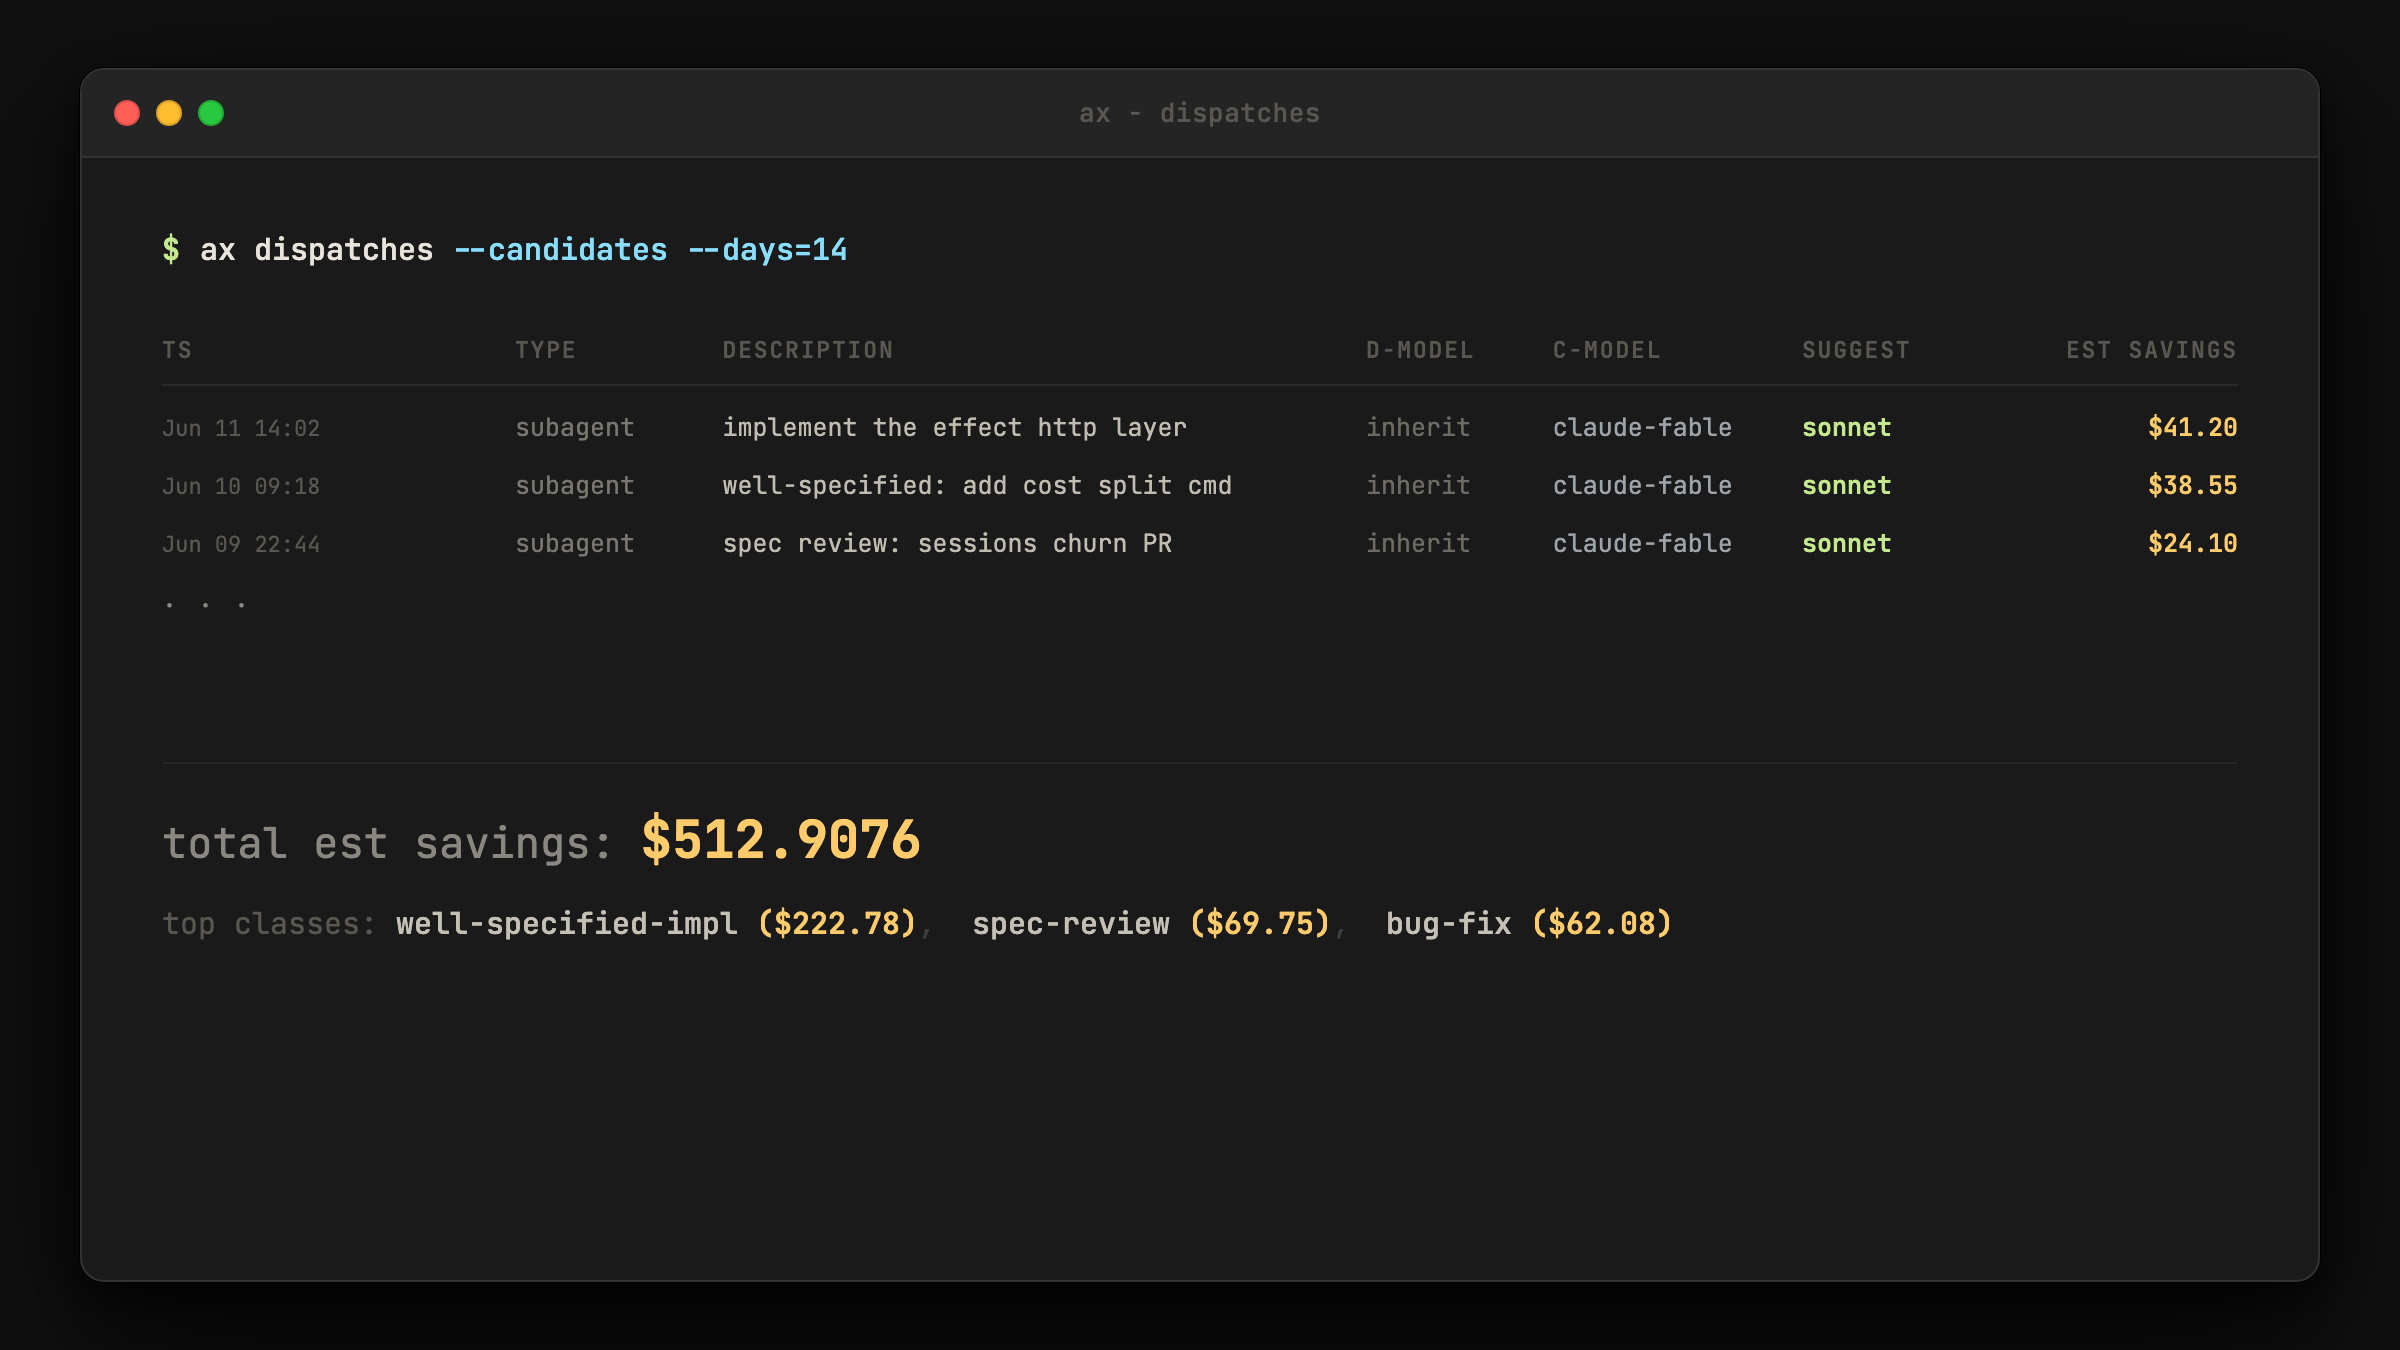
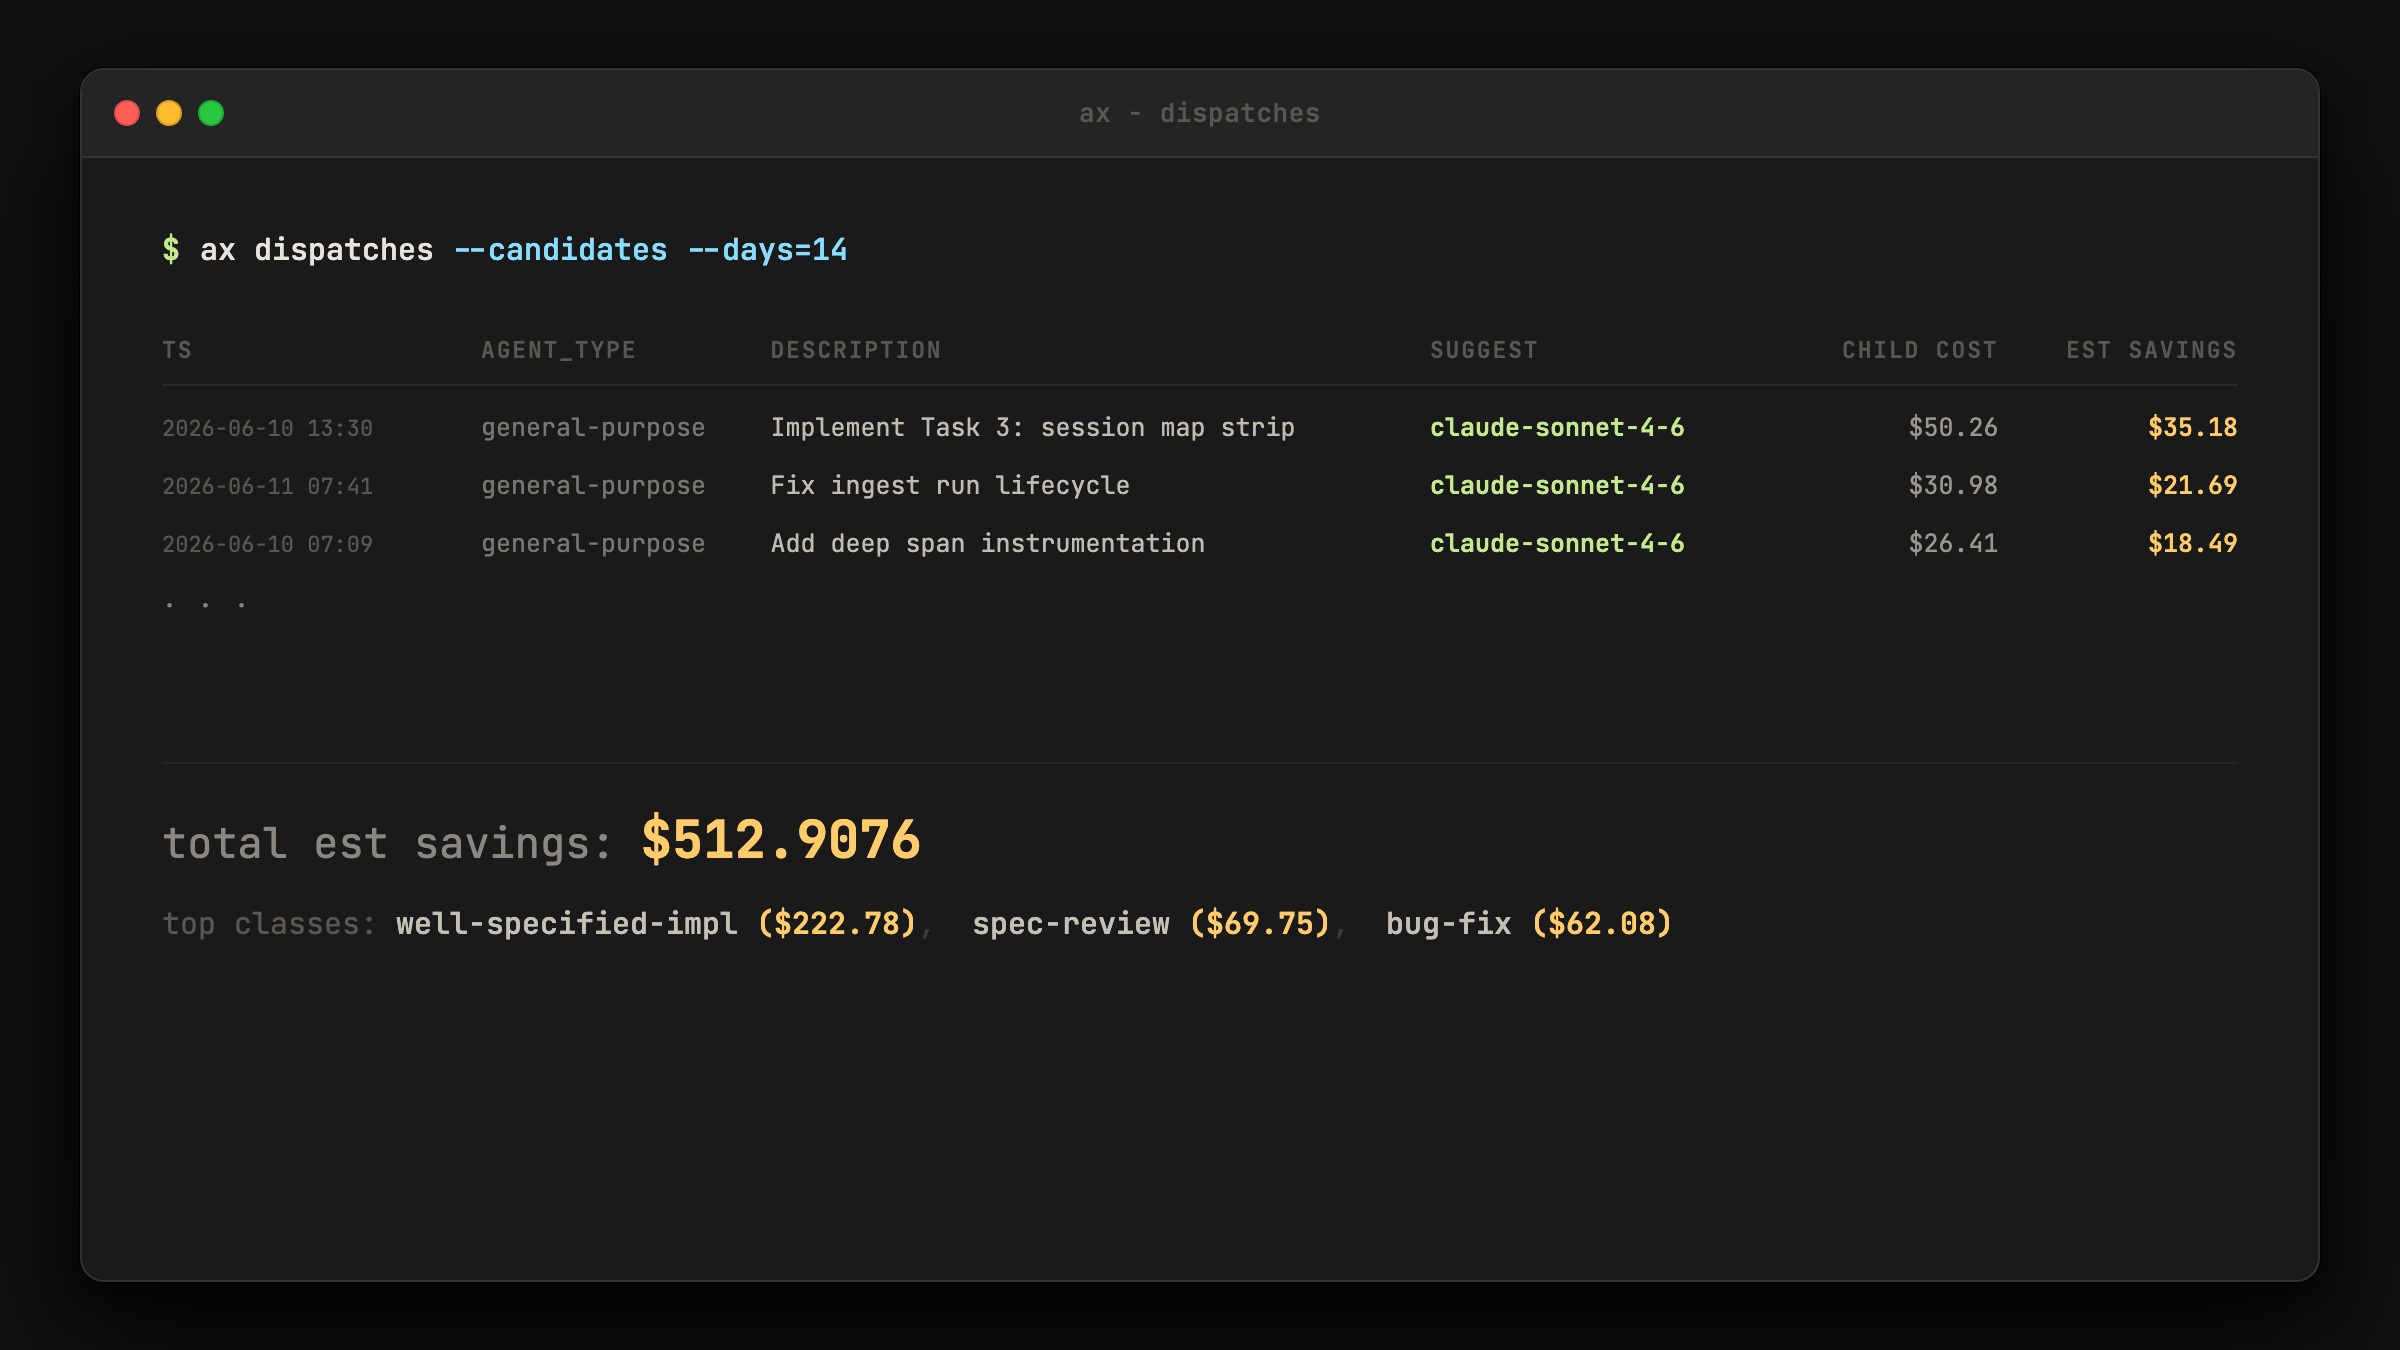
docs(marketing): replace invented rows with real output data
Table rows in both launch screenshots now mirror actual command output:
tune-dryrun gains the judgment column (issue-N/quality-review/plan-phase/
final-review with real counts + addressable spend); candidates shows the
three real dispatches with child cost and est savings. Honest numbers are
the brand - every visible figure is real.

diff --git a/docs/marketing/2026-06-12-shot-candidates.html b/docs/marketing/2026-06-12-shot-candidates.html
@@ -137,20 +137,18 @@
   .tbl tbody tr:first-child td { padding-top: 12px; }
   .tbl tbody tr td.right { text-align: right; }
 
-  .col-ts    { width: 170px; }
-  .col-type  { width: 100px; }
-  .col-desc  { width: 310px; }
-  .col-dmod  { width: 90px; }
-  .col-cmod  { width: 120px; }
-  .col-sug   { width: 90px; }
+  .col-ts    { width: 160px; }
+  .col-type  { width: 145px; }
+  .col-desc  { width: 330px; }
+  .col-sug   { width: 175px; }
+  .col-cost  { width: 110px; text-align: right; }
   .col-save  { width: 120px; text-align: right; }
 
   .ts-text   { color: #5a5752; font-size: 11px; }
   .type-text { color: #7a7671; }
-  .desc-text { color: #c0bcb2; white-space: nowrap; overflow: hidden; text-overflow: ellipsis; max-width: 310px; display: block; }
-  .dmod-inherit { color: #6e6b65; }
-  .cmod-text { color: #9da3a8; }
+  .desc-text { color: #c0bcb2; white-space: nowrap; overflow: hidden; text-overflow: ellipsis; max-width: 330px; display: block; }
   .sug-text  { color: var(--green); font-weight: 600; }
+  .cost-text { color: #9a968d; }
   .save-text { color: var(--amber); font-weight: 500; }
 
   .ellipsis-row td {
@@ -219,44 +217,40 @@
           <thead>
             <tr>
               <th class="col-ts">ts</th>
-              <th class="col-type">type</th>
+              <th class="col-type">agent_type</th>
               <th class="col-desc">description</th>
-              <th class="col-dmod">d-model</th>
-              <th class="col-cmod">c-model</th>
               <th class="col-sug">suggest</th>
+              <th class="col-cost right">child cost</th>
               <th class="col-save right">est savings</th>
             </tr>
           </thead>
           <tbody>
             <tr>
-              <td class="col-ts"><span class="ts-text">Jun 11 14:02</span></td>
-              <td class="col-type"><span class="type-text">subagent</span></td>
-              <td class="col-desc"><span class="desc-text">implement the effect http layer</span></td>
-              <td class="col-dmod"><span class="dmod-inherit">inherit</span></td>
-              <td class="col-cmod"><span class="cmod-text">claude-fable</span></td>
-              <td class="col-sug"><span class="sug-text">sonnet</span></td>
-              <td class="col-save right"><span class="save-text">$41.20</span></td>
+              <td class="col-ts"><span class="ts-text">2026-06-10 13:30</span></td>
+              <td class="col-type"><span class="type-text">general-purpose</span></td>
+              <td class="col-desc"><span class="desc-text">Implement Task 3: session map strip</span></td>
+              <td class="col-sug"><span class="sug-text">claude-sonnet-4-6</span></td>
+              <td class="col-cost right"><span class="cost-text">$50.26</span></td>
+              <td class="col-save right"><span class="save-text">$35.18</span></td>
             </tr>
             <tr>
-              <td class="col-ts"><span class="ts-text">Jun 10 09:18</span></td>
-              <td class="col-type"><span class="type-text">subagent</span></td>
-              <td class="col-desc"><span class="desc-text">well-specified: add cost split cmd</span></td>
-              <td class="col-dmod"><span class="dmod-inherit">inherit</span></td>
-              <td class="col-cmod"><span class="cmod-text">claude-fable</span></td>
-              <td class="col-sug"><span class="sug-text">sonnet</span></td>
-              <td class="col-save right"><span class="save-text">$38.55</span></td>
+              <td class="col-ts"><span class="ts-text">2026-06-11 07:41</span></td>
+              <td class="col-type"><span class="type-text">general-purpose</span></td>
+              <td class="col-desc"><span class="desc-text">Fix ingest run lifecycle</span></td>
+              <td class="col-sug"><span class="sug-text">claude-sonnet-4-6</span></td>
+              <td class="col-cost right"><span class="cost-text">$30.98</span></td>
+              <td class="col-save right"><span class="save-text">$21.69</span></td>
             </tr>
             <tr>
-              <td class="col-ts"><span class="ts-text">Jun 09 22:44</span></td>
-              <td class="col-type"><span class="type-text">subagent</span></td>
-              <td class="col-desc"><span class="desc-text">spec review: sessions churn PR</span></td>
-              <td class="col-dmod"><span class="dmod-inherit">inherit</span></td>
-              <td class="col-cmod"><span class="cmod-text">claude-fable</span></td>
-              <td class="col-sug"><span class="sug-text">sonnet</span></td>
-              <td class="col-save right"><span class="save-text">$24.10</span></td>
+              <td class="col-ts"><span class="ts-text">2026-06-10 07:09</span></td>
+              <td class="col-type"><span class="type-text">general-purpose</span></td>
+              <td class="col-desc"><span class="desc-text">Add deep span instrumentation</span></td>
+              <td class="col-sug"><span class="sug-text">claude-sonnet-4-6</span></td>
+              <td class="col-cost right"><span class="cost-text">$26.41</span></td>
+              <td class="col-save right"><span class="save-text">$18.49</span></td>
             </tr>
             <tr class="ellipsis-row">
-              <td colspan="7" style="letter-spacing: 0.12em; padding-top: 8px;">· · ·</td>
+              <td colspan="6" style="letter-spacing: 0.12em; padding-top: 8px;">· · ·</td>
             </tr>
           </tbody>
         </table>

diff --git a/docs/marketing/2026-06-12-shot-tune-dryrun.html b/docs/marketing/2026-06-12-shot-tune-dryrun.html
@@ -138,15 +138,18 @@
   .tbl tbody tr td.right { text-align: right; }
   .tbl tbody tr:first-child td { padding-top: 12px; }
 
-  .tbl .col-id    { width: 180px; }
-  .tbl .col-pat   { width: 260px; }
-  .tbl .col-sug   { width: 120px; }
+  .tbl .col-id    { width: 175px; }
+  .tbl .col-pat   { width: 245px; }
+  .tbl .col-sug   { width: 105px; }
   .tbl .col-cnt   { width: 80px; text-align: right; }
-  .tbl .col-addr  { width: 140px; text-align: right; }
+  .tbl .col-addr  { width: 135px; text-align: right; }
+  .tbl .col-judg  { width: 110px; text-align: right; }
 
   .id-text { color: #c4c0b6; }
   .sug-text { color: var(--green); }
   .addr-text { color: #ccc8bf; }
+  .judg-no  { color: #55524d; }
+  .judg-yes { color: #c9a050; font-weight: 600; letter-spacing: 0.04em; }
 
   .ellipsis-row td {
     color: var(--faint);
@@ -218,39 +221,44 @@
               <th class="col-sug">suggest</th>
               <th class="col-cnt right">count</th>
               <th class="col-addr right">addressable</th>
+              <th class="col-judg right">judgment</th>
             </tr>
           </thead>
           <tbody>
             <tr>
-              <td class="col-id"><span class="id-text">hard-task</span></td>
-              <td class="col-pat"><span style="color:#6e6b65">^hard\s+task\b</span></td>
+              <td class="col-id"><span class="id-text">issue-N</span></td>
+              <td class="col-pat"><span style="color:#6e6b65">^issue\s+\d+\b</span></td>
+              <td class="col-sug"><span class="sug-text">sonnet</span></td>
+              <td class="col-cnt right">12</td>
+              <td class="col-addr right"><span class="addr-text">$161.42</span></td>
+              <td class="col-judg right"><span class="judg-no">no</span></td>
+            </tr>
+            <tr>
+              <td class="col-id"><span class="id-text">quality-review</span></td>
+              <td class="col-pat"><span style="color:#6e6b65">^quality\s+review\b</span></td>
+              <td class="col-sug"><span class="sug-text">sonnet</span></td>
+              <td class="col-cnt right">43</td>
+              <td class="col-addr right"><span class="addr-text">$105.90</span></td>
+              <td class="col-judg right"><span class="judg-yes">YES</span></td>
+            </tr>
+            <tr>
+              <td class="col-id"><span class="id-text">plan-phase</span></td>
+              <td class="col-pat"><span style="color:#6e6b65">^plan\s+phase\b</span></td>
               <td class="col-sug"><span class="sug-text">sonnet</span></td>
               <td class="col-cnt right">4</td>
-              <td class="col-addr right"><span class="addr-text">$1.04</span></td>
+              <td class="col-addr right"><span class="addr-text">$77.64</span></td>
+              <td class="col-judg right"><span class="judg-yes">YES</span></td>
             </tr>
             <tr>
-              <td class="col-id"><span class="id-text">write-tests</span></td>
-              <td class="col-pat"><span style="color:#6e6b65">^write\s+tests?\b</span></td>
+              <td class="col-id"><span class="id-text">final-review</span></td>
+              <td class="col-pat"><span style="color:#6e6b65">^final\s+review\b</span></td>
               <td class="col-sug"><span class="sug-text">sonnet</span></td>
-              <td class="col-cnt right">9</td>
-              <td class="col-addr right"><span class="addr-text">$18.22</span></td>
-            </tr>
-            <tr>
-              <td class="col-id"><span class="id-text">implement-feat</span></td>
-              <td class="col-pat"><span style="color:#6e6b65">^implement\s+\w</span></td>
-              <td class="col-sug"><span class="sug-text">sonnet</span></td>
-              <td class="col-cnt right">17</td>
-              <td class="col-addr right"><span class="addr-text">$64.11</span></td>
-            </tr>
-            <tr>
-              <td class="col-id"><span class="id-text">fix-bug</span></td>
-              <td class="col-pat"><span style="color:#6e6b65">^fix\s+\w+\s+bug\b</span></td>
-              <td class="col-sug"><span class="sug-text">sonnet</span></td>
-              <td class="col-cnt right">14</td>
-              <td class="col-addr right"><span class="addr-text">$62.08</span></td>
+              <td class="col-cnt right">16</td>
+              <td class="col-addr right"><span class="addr-text">$75.70</span></td>
+              <td class="col-judg right"><span class="judg-yes">YES</span></td>
             </tr>
             <tr class="ellipsis-row">
-              <td colspan="5" style="letter-spacing: 0.12em; padding-top: 6px; color: #3e3c38;">· · ·</td>
+              <td colspan="6" style="letter-spacing: 0.12em; padding-top: 6px; color: #3e3c38;">· · ·</td>
             </tr>
           </tbody>
         </table>